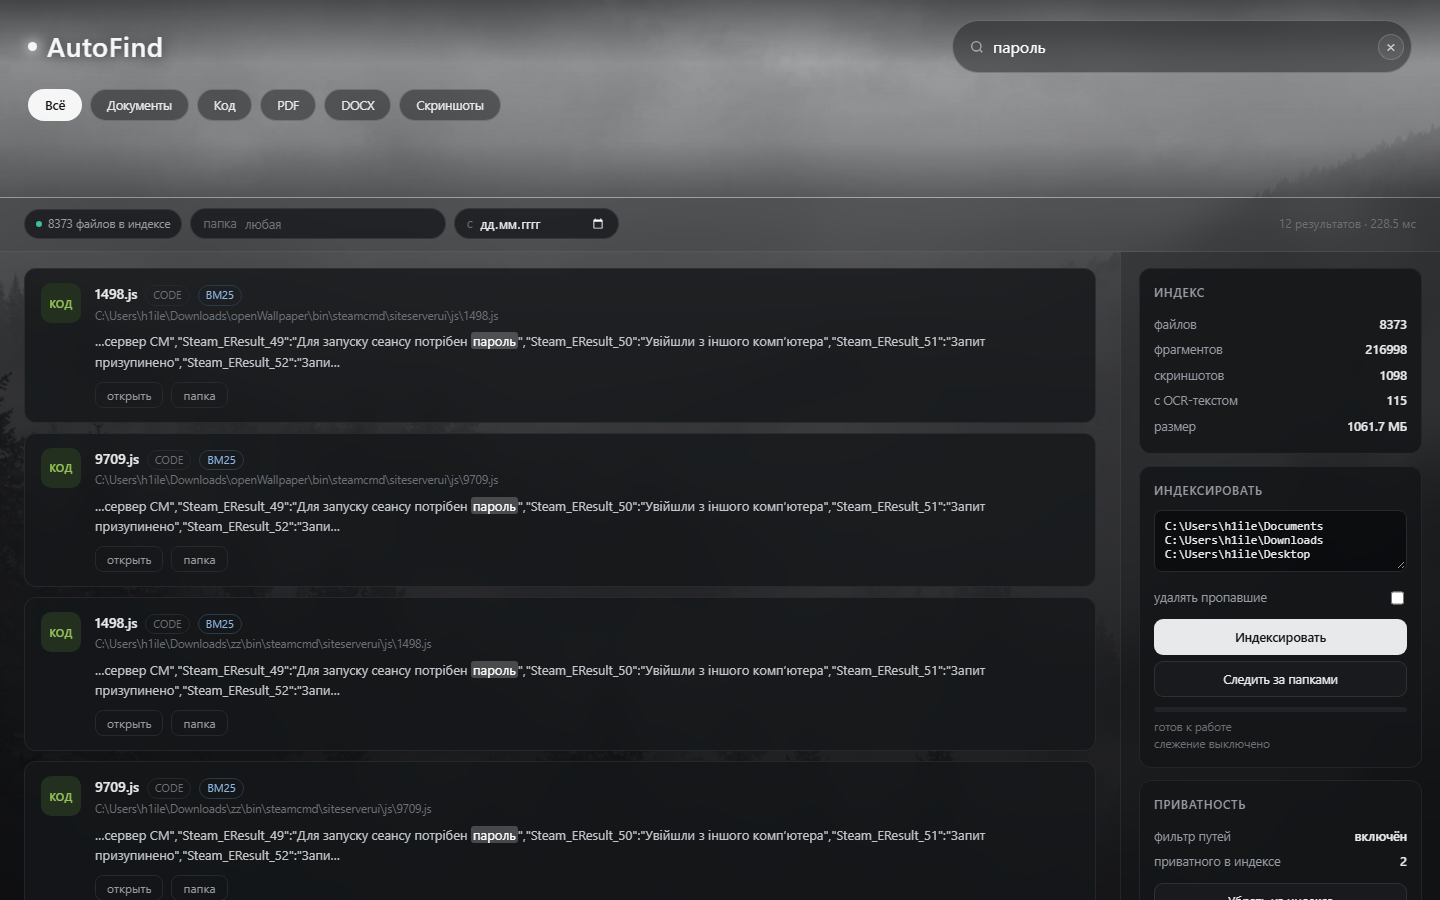
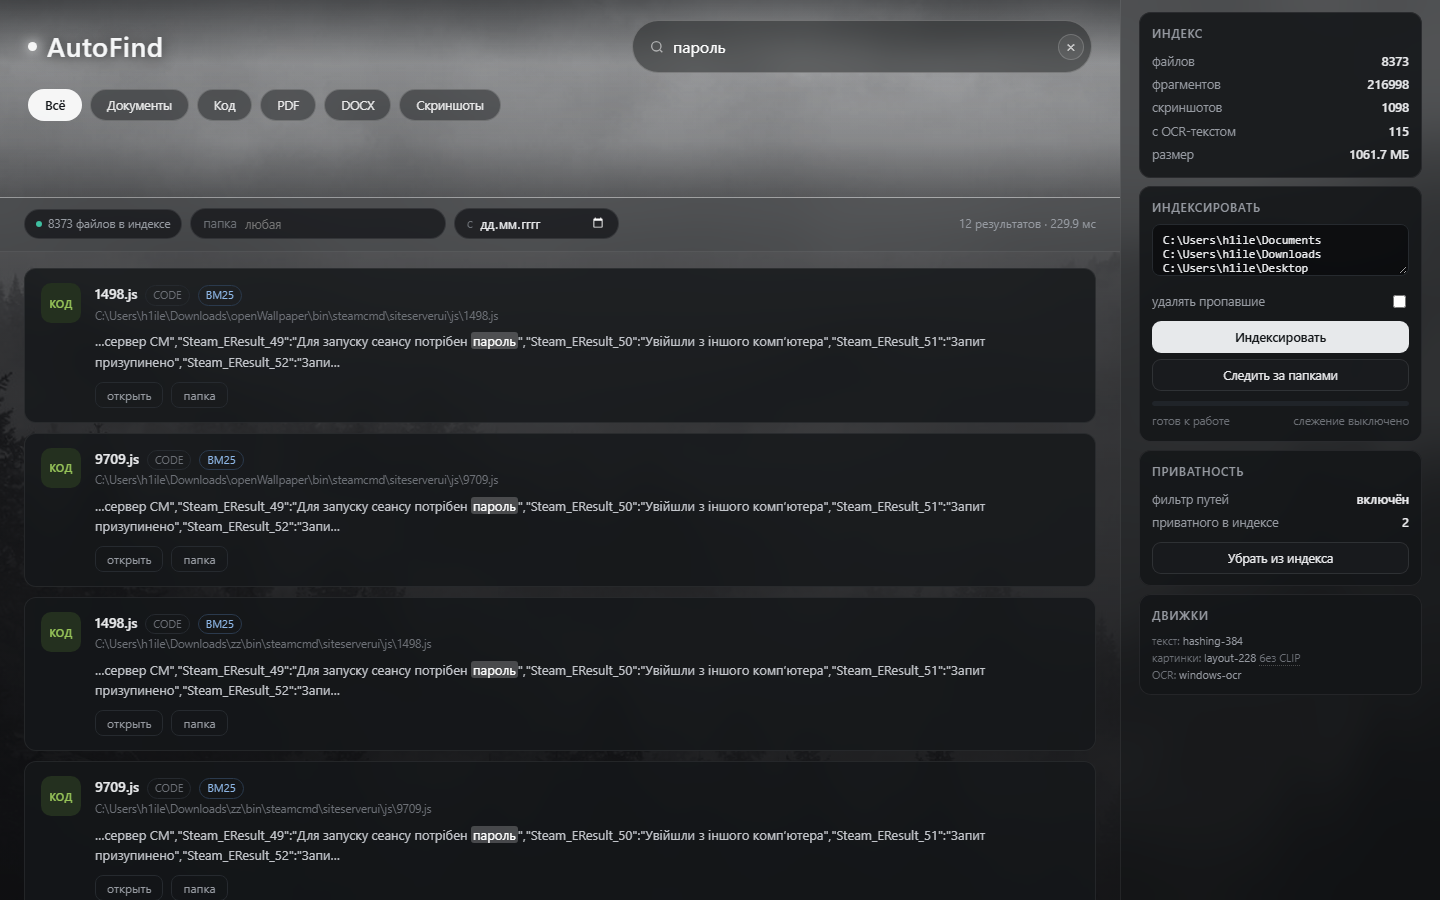
UI: sidebar spans the full window height
The sidebar lived in the third grid row, so on a 700px window it got ~450px and the privacy and engines panels were unreachable. grid-template-areas is now head/tools/main on the left and side on the right, so the column runs from the top edge down. Panels are compacted (padding, stat rows, paths box) and the two progress labels share a line so all four fit at 700px; the engines note moved into a tooltip instead of its own line.

diff --git a/web/style.css b/web/style.css
@@ -61,9 +61,12 @@ button, input, select { font-family: inherit; font-size: inherit; color: inherit
   display: grid;
   grid-template-columns: minmax(0, 1fr) 320px;
   grid-template-rows: auto auto minmax(0, 1fr);
+  /* The sidebar spans all three rows. It used to start below the hero and the
+     filter row, which left it ~450px tall on a 700px window: the privacy and
+     engine panels were cut off no matter how far you scrolled. */
   grid-template-areas:
-    "head head"
-    "tools tools"
+    "head side"
+    "tools side"
     "main side";
   height: 100vh;
   max-height: 100vh;
@@ -495,19 +498,20 @@ aside {
   overflow-y: auto;
   background: rgba(11, 12, 14, 0.56);
   backdrop-filter: blur(16px) saturate(120%);
+  padding-top: 12px;
 }
 
 .panel {
   border: 1px solid rgba(255, 255, 255, 0.07);
   border-radius: var(--radius);
-  padding: 14px;
-  margin-bottom: 12px;
+  padding: 11px 12px;
+  margin-bottom: 8px;
   background: rgba(22, 24, 27, 0.72);
   backdrop-filter: blur(10px);
 }
 
 .panel h3 {
-  margin: 0 0 10px;
+  margin: 0 0 7px;
   font-size: 12px;
   font-weight: 600;
   color: var(--muted);
@@ -518,15 +522,26 @@ aside {
 .stat-row {
   display: flex;
   justify-content: space-between;
-  padding: 3px 0;
+  padding: 2px 0;
   font-size: 12.5px;
   color: var(--muted);
 }
 
 .stat-row b { color: var(--text); font-weight: 600; font-variant-numeric: tabular-nums; }
 
-.engines { font-size: 11.5px; color: var(--faint); line-height: 1.7; }
+.engines { font-size: 11px; color: var(--faint); line-height: 1.55; }
 .engines span { color: var(--muted); }
+.engines .hint { color: var(--faint); border-bottom: 1px dotted rgba(255, 255, 255, 0.22); cursor: help; }
+
+.status-line {
+  display: flex;
+  gap: 10px;
+  align-items: baseline;
+  min-width: 0;
+}
+
+.status-line .progress-label { flex: 1 1 auto; min-width: 0; }
+.status-line .progress-label + .progress-label { flex: 0 1 auto; text-align: right; }
 
 .btn {
   width: 100%;
@@ -537,6 +552,8 @@ aside {
   border-radius: 9px;
   cursor: pointer;
   font-size: 12.5px;
+  padding-top: 7px;
+  padding-bottom: 7px;
 }
 
 .btn:hover { border-color: #3a4048; }
@@ -546,7 +563,7 @@ aside {
 
 .paths {
   width: 100%;
-  min-height: 62px;
+  min-height: 52px;
   resize: vertical;
   background: rgba(10, 11, 13, 0.72);
   border: 1px solid var(--border);

diff --git a/web/app.js b/web/app.js
@@ -156,8 +156,7 @@ async function loadStats() {
     const engines = status.ocr?.available || [];
     $("engines").innerHTML = `
       <div>текст: <span>${esc(status.text_embedder)}</span></div>
-      <div>картинки: <span>${esc(status.visual_embedder)}</span>
-        ${status.visual_supports_text ? "" : '<br><span style="color:var(--faint)">поиск по описанию недоступен без CLIP</span>'}</div>
+      <div>картинки: <span>${esc(status.visual_embedder)}</span>${status.visual_supports_text ? "" : ' <span class="hint" title="без CLIP поиск по описанию недоступен">без CLIP</span>'}</div>
       <div>OCR: <span>${engines.length ? esc(engines.join(", ")) : "не найден"}</span></div>`;
     if (!$("roots").value.trim() && status.default_roots?.length) {
       $("roots").value = status.default_roots.join("\n");

diff --git a/web/index.html b/web/index.html
@@ -78,8 +78,10 @@
       <button class="btn primary" id="index-btn" style="margin-top:8px">Индексировать</button>
       <button class="btn" id="watch-btn" style="margin-top:6px">Следить за папками</button>
       <div class="progress"><div id="bar"></div></div>
-      <div class="progress-label" id="progress-label">готов к работе</div>
-      <div class="progress-label" id="watch-label">слежение выключено</div>
+      <div class="status-line">
+        <span class="progress-label" id="progress-label">готов к работе</span>
+        <span class="progress-label" id="watch-label">слежение выключено</span>
+      </div>
     </div>
 
     <div class="panel">

diff --git a/docs/decisions.md b/docs/decisions.md
@@ -114,3 +114,19 @@ UI открывает Store на каждый запрос. Без кеша эт
 сниппете тоже стала белой: цветное пятно в тексте перетягивало внимание с
 самого результата. Точка у заголовка светится мягко (`mark-pulse`), с
 `prefers-reduced-motion` анимация отключается.
+
+## 17. Сайдбар занимает всю высоту окна
+
+Изначально он стоял только в третьей строке сетки — под шапкой и фильтрами. На
+окне 700 px это оставляло ему ~450 px: панели «Приватность» и «Движки» уходили
+за нижний край, и прокрутка внутри колонки не помогала (её просто не видно).
+Теперь `grid-template-areas` = `"head side" / "tools side" / "main side"`, то
+есть колонка тянется от верха окна до низа.
+
+Побочный эффект: поле поиска больше не упирается в правый край окна — оно
+заканчивается на границе сайдбара. Это осознанный обмен: видеть все панели
+важнее, чем формальное совпадение с эскизом.
+
+Чтобы четыре панели влезали в 700 px, заодно ужаты отступы панелей (14→11/12,
+margin 12→8), строки статистики (3→2), поле путей (62→52), а две подписи
+прогресса стоят в одну строку через flex.
